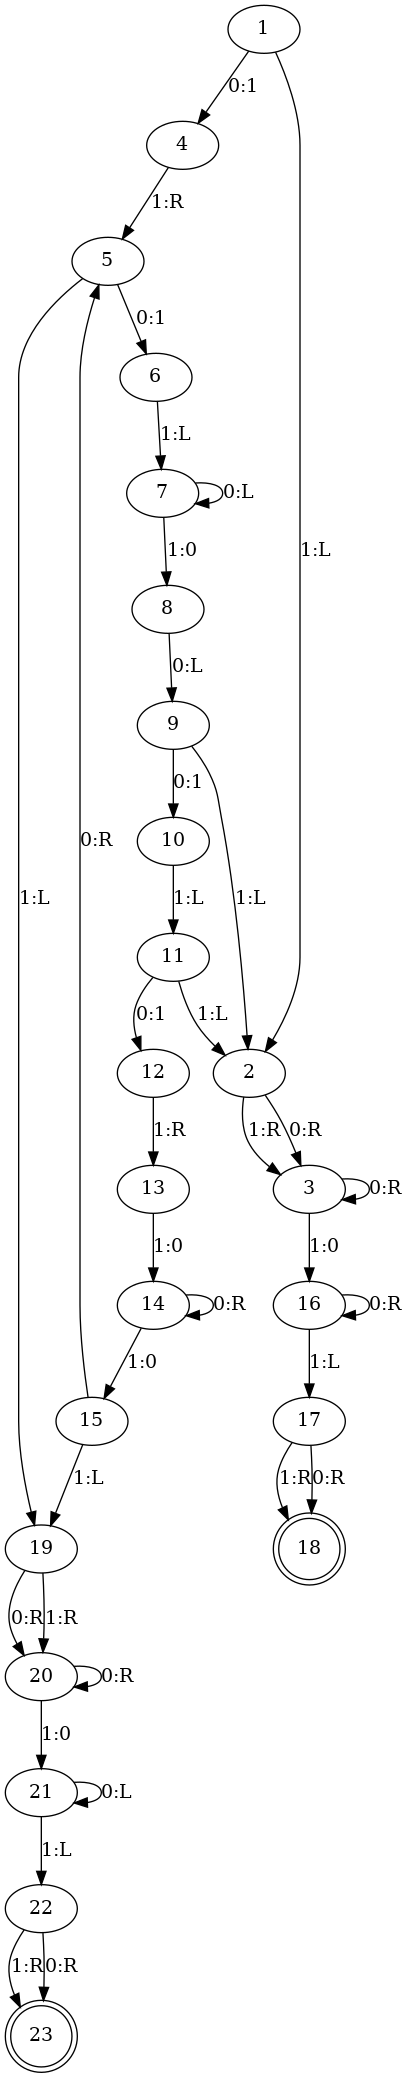
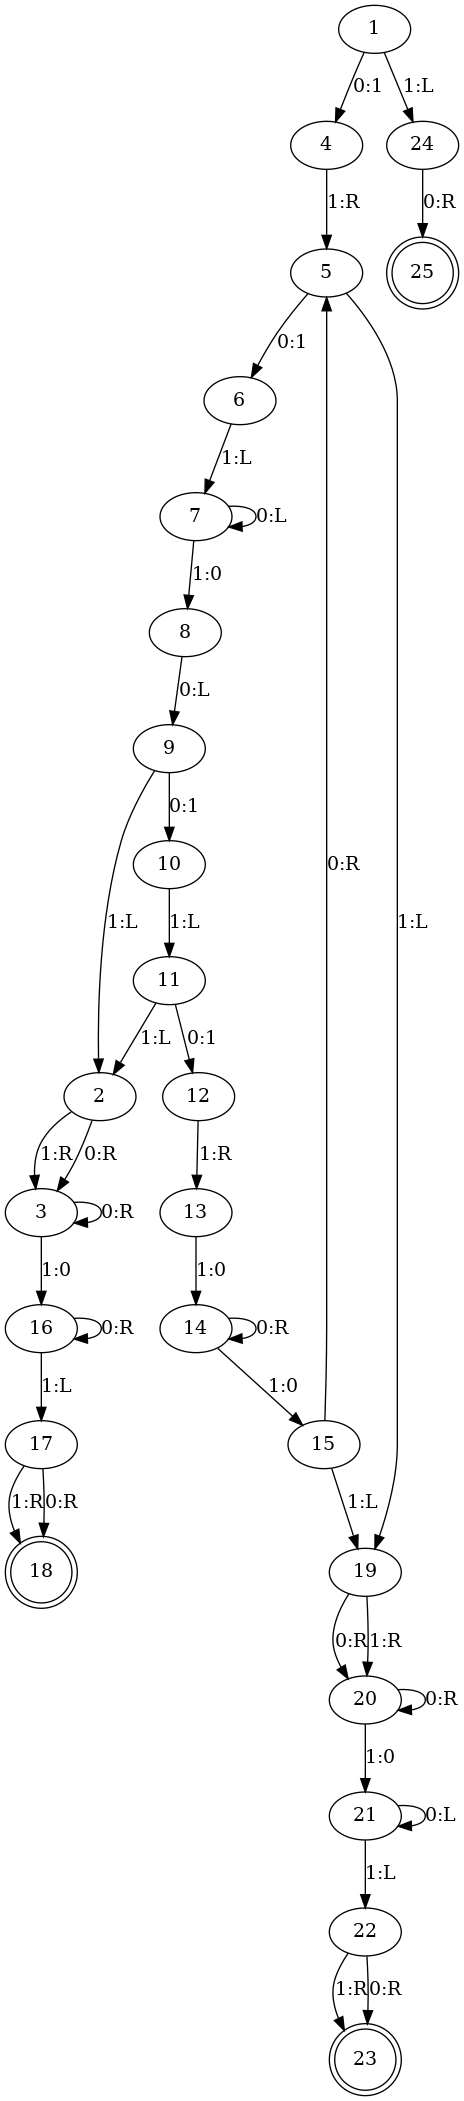
update tm

diff --git a/turingMachine.py b/turingMachine.py
@@ -96,8 +96,8 @@ class minValueTuringMachine(turingMachine):
 
 class blankNoHaltTuringMachine(turingMachine):
     def __init__(self):
-        states = [i for i in range(1, 24)]
-        end_states = [18,23]
+        states = [i for i in range(1, 26)]
+        end_states = [18,23,25]
         start_state = 1
         file_name="1halt_fa.txt"
         super(blankNoHaltTuringMachine,self).__init__(states,start_state,end_states,file_name)
@@ -105,8 +105,8 @@ class blankNoHaltTuringMachine(turingMachine):
 if __name__ == '__main__':
     tm1=minValueTuringMachine()
     tm1.get_machine_picture()
-    #tm1.test_tm()
+    tm1.test_tm()
 
     tm2 = blankNoHaltTuringMachine()
     tm2.get_machine_picture()
-    #tm2.test_tm()
+    tm2.test_tm()
